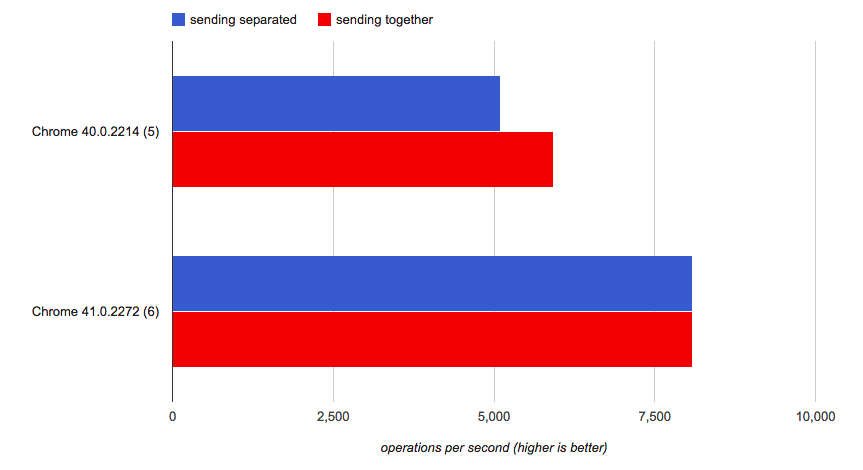
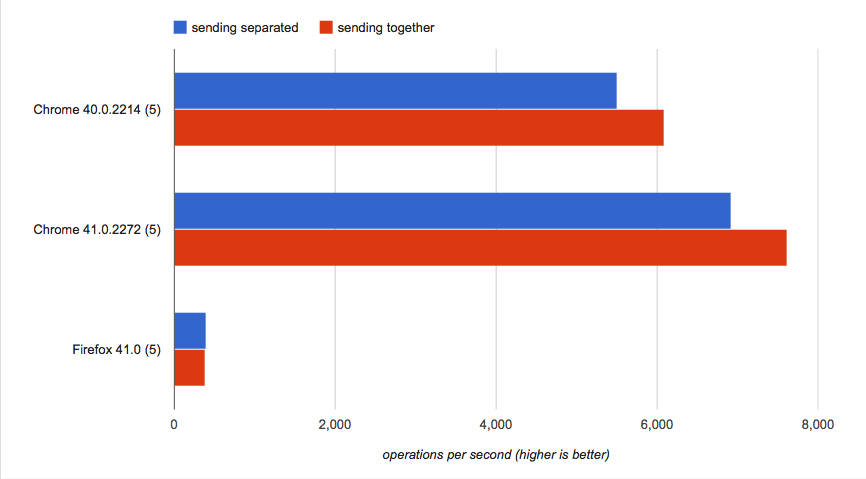
updates test and result image.

diff --git a/spikes/6.1/sendingAdditionalsSeqVsPar/jspBenchmark.js b/spikes/6.1/sendingAdditionalsSeqVsPar/jspBenchmark.js
@@ -1,4 +1,4 @@
-// http://jsperf.com/additional-sendingdata-comparison/2
+// http://jsperf.com/additional-sendingdata-comparison/3
 
 // HTML setup
 <script>
